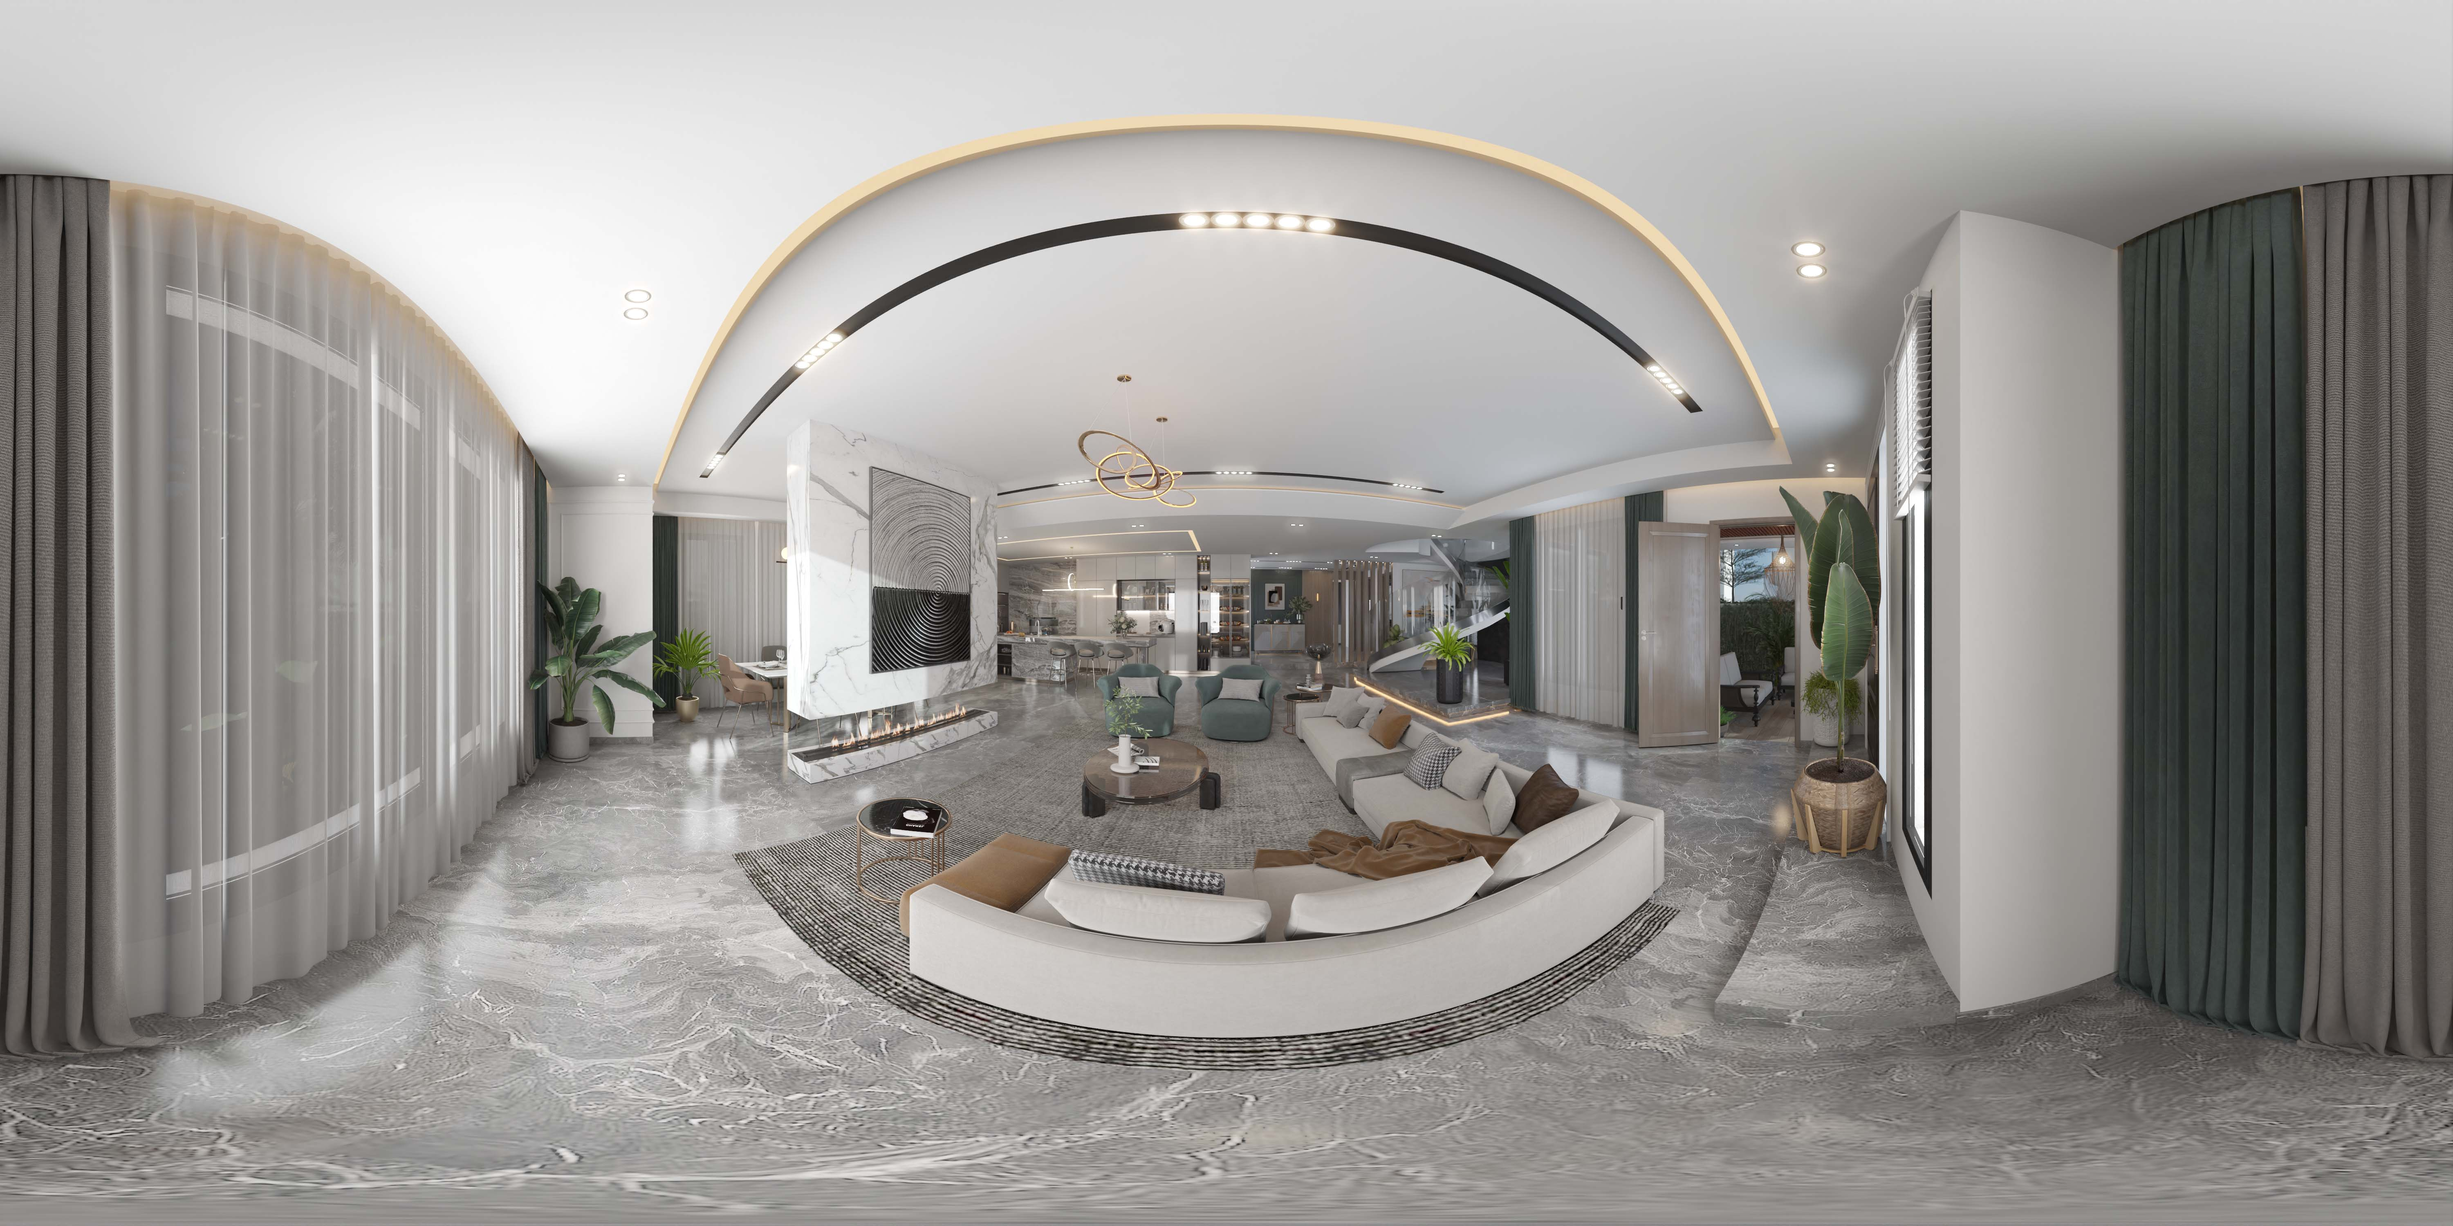
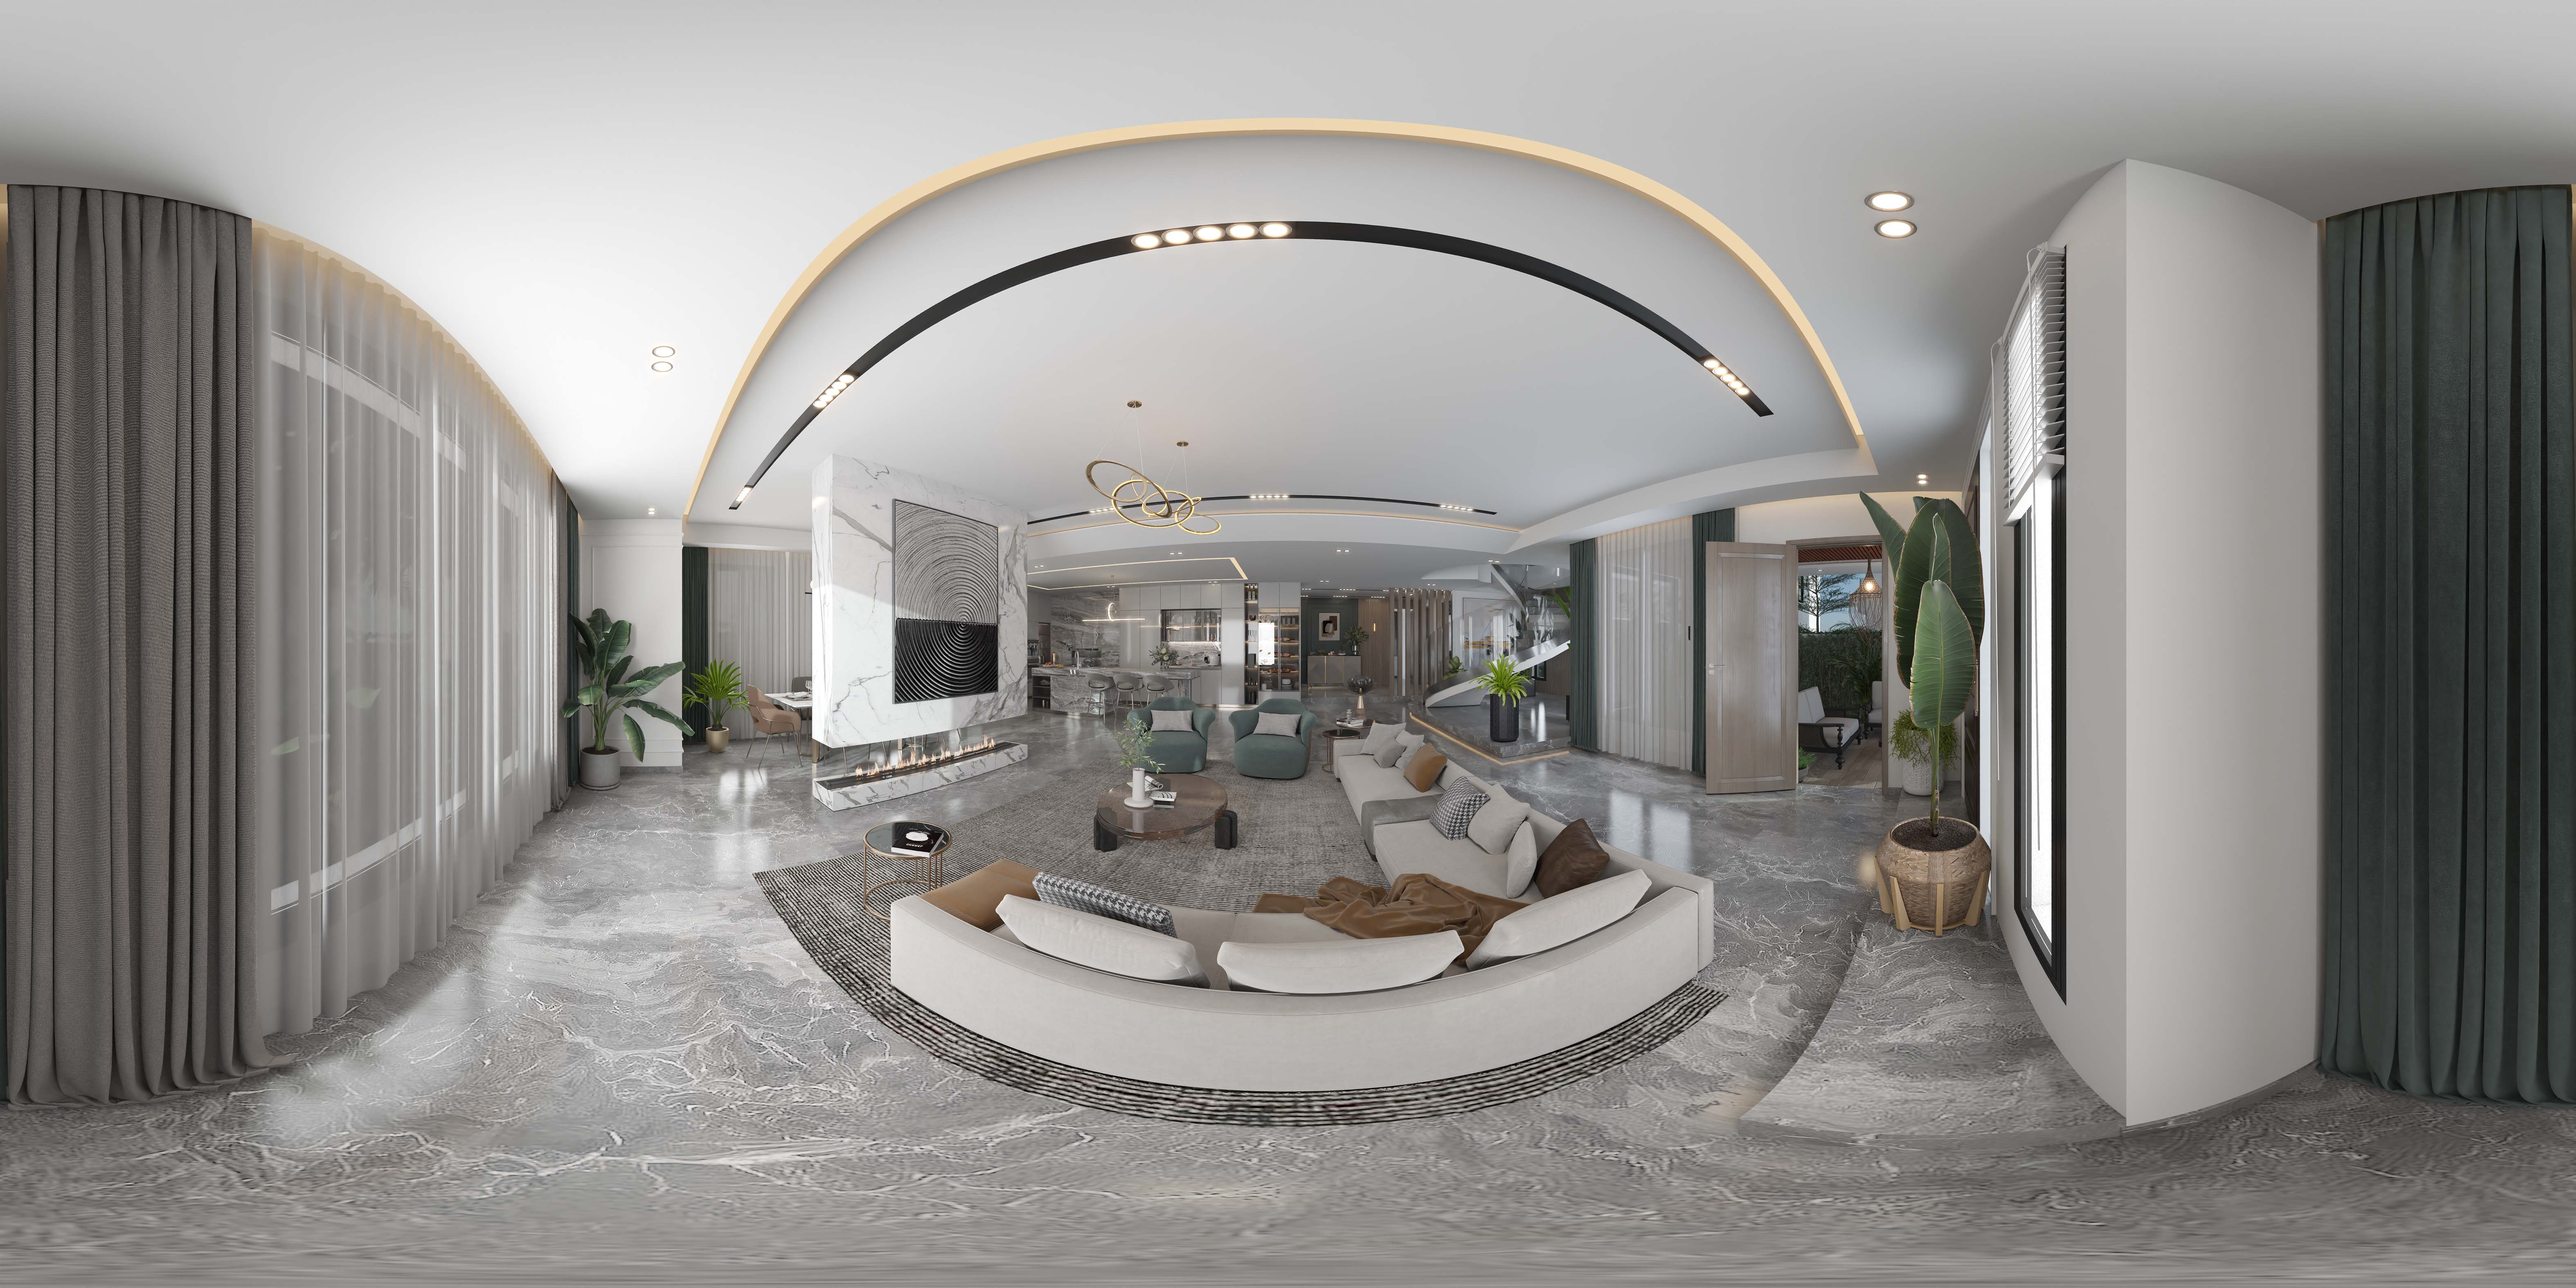
first commit -19

diff --git a/index.html b/index.html
@@ -83,6 +83,7 @@ de haut standing" />
             <img id="Scene-25" src="./Style/Images/Scene-25.jpg">
             <img id="Scene-26" src="./Style/Images/Scene-26.jpg">
             <img id="Scene-27" src="./Style/Images/Scene-27.jpg">
+            <img id="Scene-28" src="./Style/Images/Scene-28.jpg">
 
         </a-assets>
         <a-sound position="0 15 0" sound="src: #the_sound; autoplay: true; loop: true" allow="autoplay"></a-sound>
@@ -640,6 +641,15 @@ de haut standing" />
                 position="-1.93474 -0.7495 -1.92244" rotation="-83.06226451791058 136.2969191791056 159.3498760661943"
                 the_dote="Name_of_dote: Dote-24 ; Group_to_activate: Group-24; The_rotation: 0">
             </a-plane>
+            <a-plane data-clickable class="Dote" material="src: #Arrow-1; transparent:true"
+                position="-1.93474 -0.7495 -1.92244" rotation="-83.06226451791058 136.2969191791056 159.3498760661943"
+                the_dote="Name_of_dote: Dote-24 ; Group_to_activate: Group-24; The_rotation: 0">
+            </a-plane>
+
+            <a-plane data-clickable class="Dote" material="src: #Arrow-1; transparent:true"
+                position="1.58035 -1.59495 -2.1286" rotation="-80.01928566797078 -120.2529549998523 55.31105371074915"
+                the_dote="Name_of_dote: Dote-28 ; Group_to_activate: Group-28; The_rotation: 0">
+            </a-plane>
 
         </a-entity>
         <!-- Group-26 -->
@@ -658,12 +668,13 @@ de haut standing" />
         </a-entity>
         <!-- Group-27 -->
 
-        <a-entity scale="0 0 0" class="groups" id="Group-27" visible="false">
+        <a-entity scale="0 0 0" class="groups" id="Group-28" visible="false">
 
             <a-plane data-clickable class="Dote" material="src: #Arrow-1; transparent:true"
-                position="1.02678 -0.7495 -2.31331" rotation="-82.48816080718949 -131.91092725737917 67.10195217674635"
-                the_dote="Name_of_dote: Dote-26 ; Group_to_activate: Group-26; The_rotation: 0">
+                position="-0.68272 -0.7495 3.18951" rotation="-83.17456424575622 137.28928208027222 158.35063767148614"
+                the_dote="Name_of_dote: Dote-25 ; Group_to_activate: Group-25; The_rotation: 0">
             </a-plane>
+
 
 
         </a-entity>
@@ -796,6 +807,9 @@ de haut standing" />
                                 break;
                             case 'Dote-27':
                                 the_sky.setAttribute('src', '#Scene-27')
+                                break;
+                            case 'Dote-28':
+                                the_sky.setAttribute('src', '#Scene-28')
                                 break;
                             default:
                                 break;
